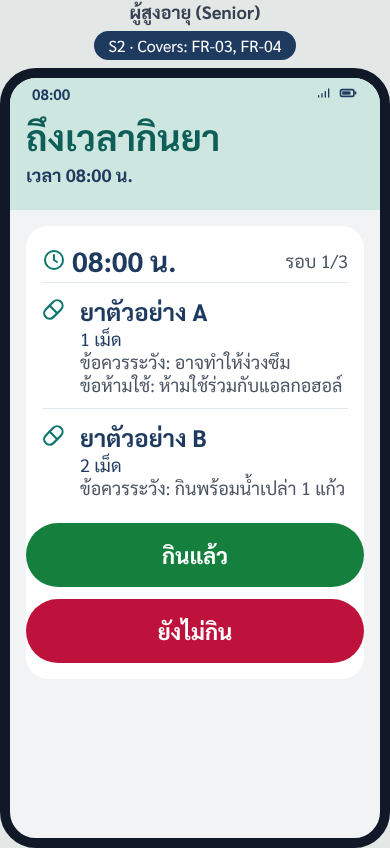
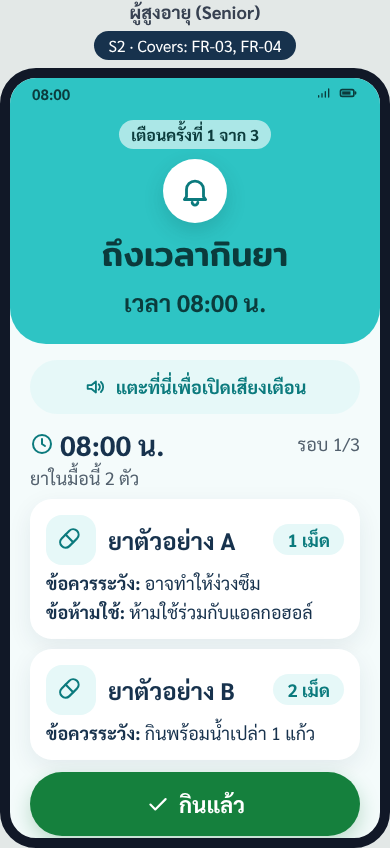
Recapture the 7 prototype screenshots in the mint-blue theme
Replace the six old-theme screenshots in docs/03-design/screens and
add R0-role-select.png, captured from prototype/index.html at the
same 390x848 size, and link R0 in the screen map.

Claude-Session: https://claude.ai/code/session_0154Tu7g4DM9q181YzCmu6eo

diff --git a/docs/03-design/design-system.md b/docs/03-design/design-system.md
@@ -8,7 +8,7 @@
 
 แนวหน้าตา (ธีมฟ้ามิ้นต์): สไตล์แอปการแพทย์ทั่วไป — พื้นมิ้นต์จางเกือบขาว · แถวบนมีรูปโปรไฟล์วงกลม + คำทักทาย · การ์ดหลักสีฟ้ามิ้นต์สดบอกข้อมูลสำคัญ (มื้อถัดไป / "กินแล้ว 2 จาก 6 มื้อ") · การ์ดสีขาวมุมโค้งมีเงาอ่อน · ปุ่มทรงแคปซูล · เมนูล่างของ Caregiver เป็นแถบลอยทรงแคปซูล · หัวข้อใช้ฟอนต์ Mitr · ไอคอนเส้นชุดเดียวที่วาดเอง (`prototype/src/icons.js`) + ตัวละครการ์ตูนคุณตา คุณยาย และลูกหลาน ที่ทีมวาดเองเป็นเวกเตอร์ (ใช้บนหน้าเลือกบทบาท รูปโปรไฟล์ และการ์ดหลัก) ไม่ใช้ภาพ stock หรือ emoji · ทุกสีตรวจ contrast แล้ว (§1.4) — **ห้ามใช้ตัวอักษรสีขาวบนฟ้ามิ้นต์สด `#2EC4C4`** (ได้แค่ 2.14 : 1) ให้ใช้ตัวอักษรเข้ม `--color-on-mint` แทน
 
-> ต้นแบบหน้าจอธีมนี้อยู่บน design canvas (Claude Design) · [`prototype/index.html`](../../prototype/index.html) ใช้เลย์เอาต์และค่าเดียวกัน ([`prototype/src/tokens.css`](../../prototype/src/tokens.css)) · ภาพหน้าจอใน §2 ยังเป็นธีมเดิม (มิ้นต์เขียว) — ต้องแคปใหม่
+> ต้นแบบหน้าจอธีมนี้อยู่บน design canvas (Claude Design) · [`prototype/index.html`](../../prototype/index.html) ใช้เลย์เอาต์และค่าเดียวกัน ([`prototype/src/tokens.css`](../../prototype/src/tokens.css)) · ภาพหน้าจอใน §2 แคปจาก prototype ธีมนี้แล้ว
 
 ### 1.1 สี
 
@@ -103,11 +103,11 @@
 
 ## 2. Screen Map: หน้าจอ ↔ FR
 
-ทุกหน้ามีป้าย **"Covers: FR-x"** เหนือจอโทรศัพท์ เพื่อชี้ได้ตอน demo ว่าหน้านี้ = requirement ข้อไหน · ภาพหน้าจอจาก [`prototype/index.html`](../../prototype/index.html) (ธีมเดิม — รอแคปใหม่ตามธีมฟ้ามิ้นต์)
+ทุกหน้ามีป้าย **"Covers: FR-x"** เหนือจอโทรศัพท์ เพื่อชี้ได้ตอน demo ว่าหน้านี้ = requirement ข้อไหน · ภาพหน้าจอจาก [`prototype/index.html`](../../prototype/index.html)
 
 | รหัส | หน้าจอ | ผู้ใช้ | Covers | องค์ประกอบหลัก | ภาพหน้าจอ |
 |---|---|---|---|---|---|
-| R0 | เลือกบทบาท | ทุกคน | — (ก่อน FR-01) | การ์ดใหญ่ 2 ใบ: "ผู้สูงอายุ" (ตัวละครคุณตาคุณยาย) → S1 · "ผู้ดูแล / ลูกหลาน" (ตัวละครลูกหลาน) → C1 | (ยังไม่มีภาพ) |
+| R0 | เลือกบทบาท | ทุกคน | — (ก่อน FR-01) | การ์ดใหญ่ 2 ใบ: "ผู้สูงอายุ" (ตัวละครคุณตาคุณยาย) → S1 · "ผู้ดูแล / ลูกหลาน" (ตัวละครลูกหลาน) → C1 | ![R0](screens/R0-role-select.png) |
 | S1 | เริ่มต้น / QR + ยินยอม | Senior | FR-01 | QR + รหัสเชิญ 6 หลัก (ไม่ต้องสมัครหรือพิมพ์) · ปุ่ม "ยินยอม" · ปุ่ม "สร้างรหัสใหม่" | ![S1](screens/S1-qr-consent.png) |
 | C1 | จับคู่ + ยกเลิกการจับคู่ | Caregiver | FR-01 | สแกน QR หรือใส่รหัส 6 หลัก · ผลจับคู่ "เชื่อมต่อแล้ว" · ปุ่ม "ยกเลิกการจับคู่" | ![C1](screens/C1-pairing.png) |
 | C2 | สแกนฉลาก → ร่าง → ตั้งเวลามื้อ | Caregiver | FR-02 | ถ่ายรูปฉลาก · ฟอร์มร่าง (ชื่อยา, จำนวนเม็ดต่อครั้ง, มื้อ/เวลา, ข้อควรระวัง, ข้อห้ามใช้) · ตั้งเวลามื้อเช้า/กลางวัน/เย็น + เวลาเข้านอน · ปุ่ม "บันทึก" / "ยกเลิก" | ![C2](screens/C2-draft-check.png) |
